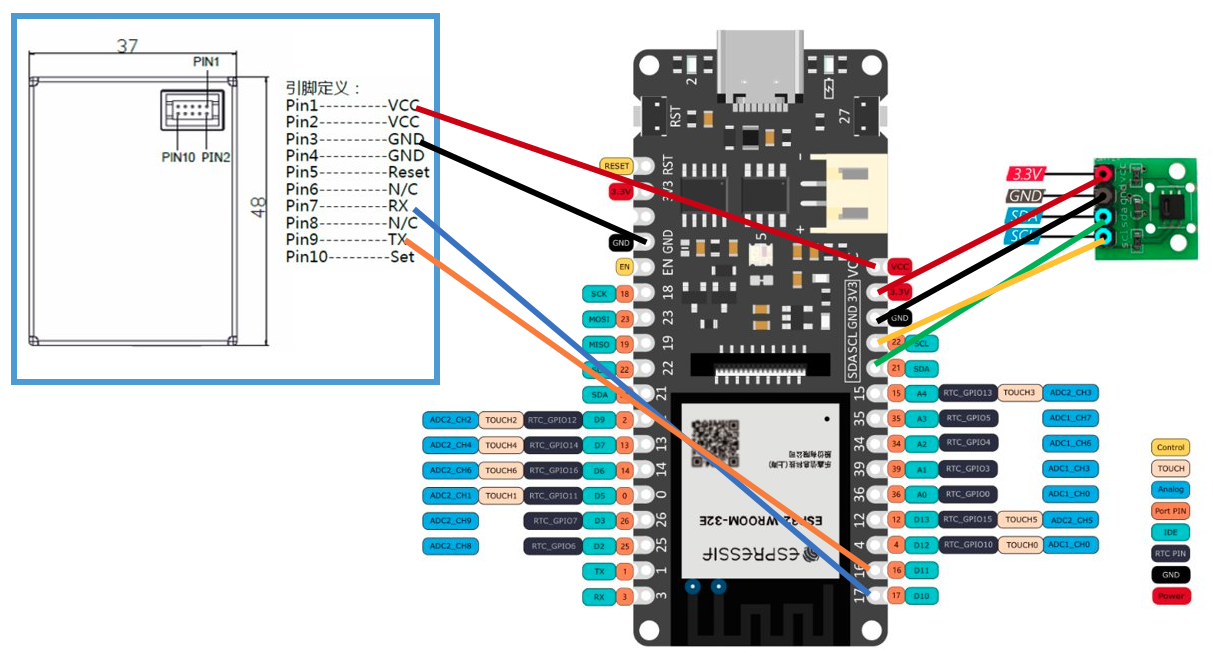
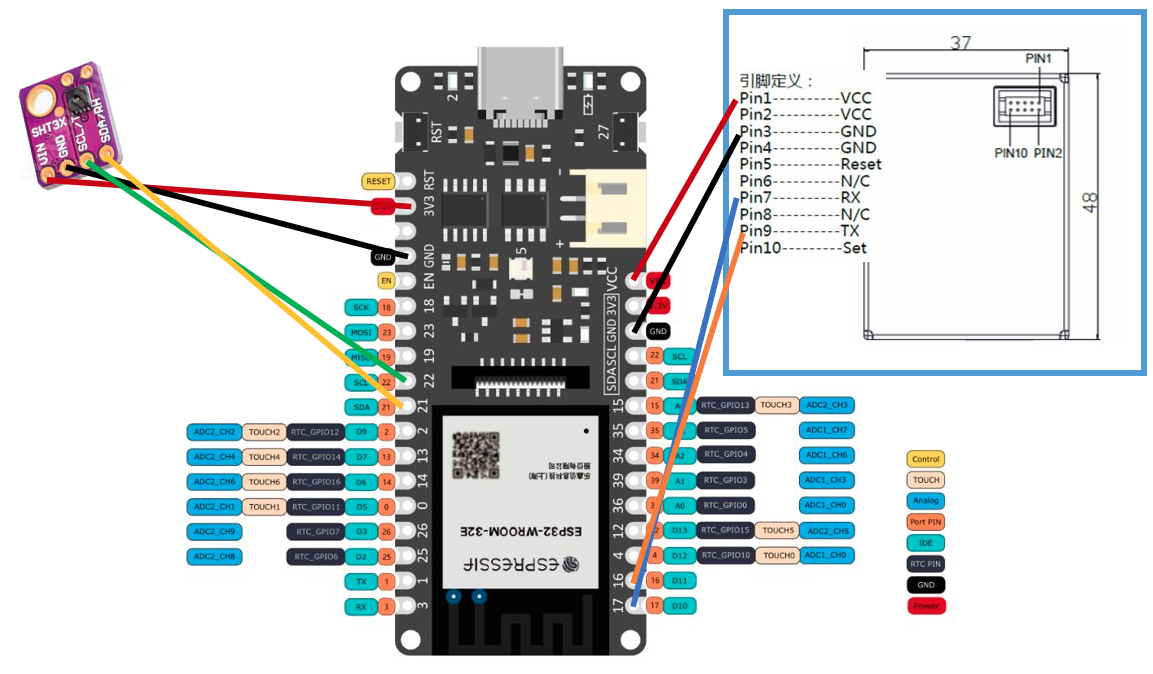
update description

diff --git a/README.md b/README.md
@@ -38,7 +38,7 @@ Datasheet here: https://aqicn.org/air/sensor/spec/pms7003-english-v2.5.pdf
 
 More info here: https://aqicn.org/sensor/pms5003-7003/
 
-SHT20 is interfaced via I2C, while PMS7003 is interfaced via TTL Serial.
+SHT31 is interfaced via I2C, while PMS7003 is interfaced via TTL Serial.
 Please find here below the connections.
 
 ![connections](images/connections.png)
